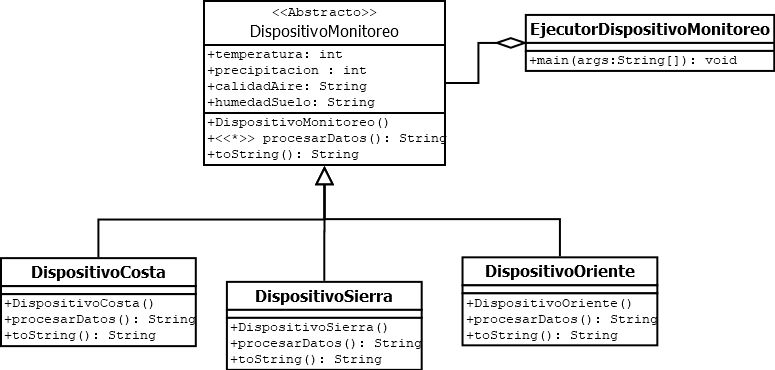
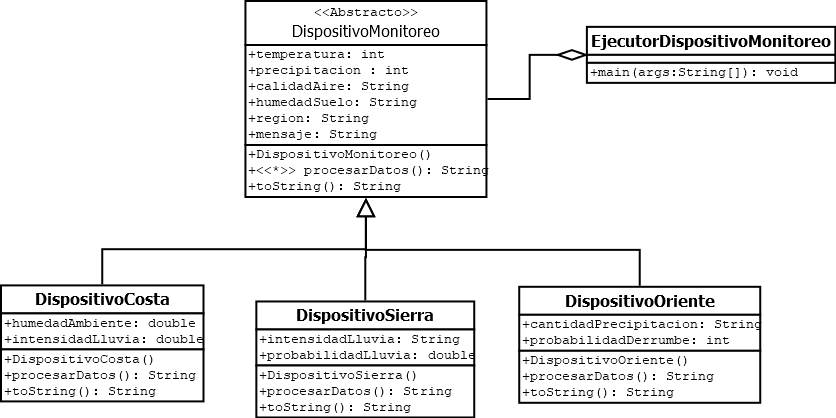
act

Changed region(s): [[0.0, 0.0, 1.0, 1.0]]

diff --git a/Solucion_Codigo/EjerciciosTaller8/src/Problema_4_DispositivoMonitoreo.java b/Solucion_Codigo/EjerciciosTaller8/src/Problema_4_DispositivoMonitoreo.java
@@ -1,12 +1,200 @@
-/*
- * Click nbfs://nbhost/SystemFileSystem/Templates/Licenses/license-default.txt to change this license
- * Click nbfs://nbhost/SystemFileSystem/Templates/Classes/Class.java to edit this template
- */
+
+import java.util.ArrayList;
 
 /**
  *
  * @author paulo
  */
 public class Problema_4_DispositivoMonitoreo {
-    
+
+    public static void main(String[] args) {
+        GestionReporte controlador = new GestionReporte();
+
+        DispositivoCosta costa
+                = new DispositivoCosta(75, 10, 30, 5, "Mala", 20, "Costa");
+        DispositivoSierra sierra
+                = new DispositivoSierra("Muy alta", 60, 18, 3, "Buena", 15, "Sierra");
+        DispositivoOriente oriente
+                = new DispositivoOriente("Alta", 80, 22, 6, "Regular", 30, "Oriente");
+
+        controlador.agregarDispositivo(costa);
+        controlador.agregarDispositivo(sierra);
+        controlador.agregarDispositivo(oriente);
+
+        controlador.generarReportes();
+        controlador.mostrarDispositivos(controlador.obtenerDispositivos());
+    }
+}
+
+abstract class DispositivoMonitoreo {
+
+    public double temperatura;
+    public int precipitacion;
+    public String calidadAire;
+    public double humedadSuelo;
+    public String region;
+    public String mensaje;
+
+    public DispositivoMonitoreo() {
+    }
+
+    public DispositivoMonitoreo(double temperatura, int precipitacion, String calidadAire, double humedadSuelo, String region) {
+        this.temperatura = temperatura;
+        this.precipitacion = precipitacion;
+        this.calidadAire = calidadAire;
+        this.humedadSuelo = humedadSuelo;
+        this.region = region;
+    }
+
+    public abstract String procesarDatos();
+
+    @Override
+    public String toString() {
+        return "Temperatura: " + temperatura + "°C\n"
+                + "Precipitación: " + precipitacion + " mm\n"
+                + "Calidad del Aire: " + calidadAire + "\n"
+                + "Humedad del Suelo: " + humedadSuelo + "%\n"
+                + "Región: " + region + "\n"
+                + "Mensaje: " + mensaje;
+    }
+}
+
+class DispositivoCosta extends DispositivoMonitoreo {
+
+    public double humedadAmbiente;
+    public double intensidadLluvia;
+
+    public DispositivoCosta() {
+    }
+
+    public DispositivoCosta(double humedadAmbiente, double intensidadLluvia,
+            double temperatura, int precipitacion, String calidadAire,
+            double humedadSuelo, String region) {
+        super(temperatura, precipitacion, calidadAire, humedadSuelo, region);
+        this.humedadAmbiente = humedadAmbiente;
+        this.intensidadLluvia = intensidadLluvia;
+    }
+
+    @Override
+    public String procesarDatos() {
+        if (humedadAmbiente >= 60 && humedadAmbiente < 70) {
+            calidadAire = "Baja";
+            mensaje = "La humedad está deteriorando la calidad del aire en la región " + region;
+        } else if (humedadAmbiente > 70) {
+            calidadAire = "Muy baja";
+            mensaje = "La humedad excesiva genera condiciones críticas de calidad del aire en la región " + region;
+        } else {
+            calidadAire = "Buena";
+            mensaje = "Condiciones estables de la region " + region;
+        }
+        return mensaje;
+    }
+
+    @Override
+    public String toString() {
+        return "Dispositivo Costa\n"
+                + "Humedad Ambiente: " + humedadAmbiente + "%\n"
+                + "Intensidad de Lluvia: " + intensidadLluvia + " mm/h\n"
+                + super.toString();
+    }
+}
+
+class DispositivoSierra extends DispositivoMonitoreo {
+
+    public String intensidadLluvia;
+    public double probabilidadLluvia;
+
+    public DispositivoSierra() {
+    }
+
+    public DispositivoSierra(String intensidadLluvia, double probabilidadLluvia,
+            double temperatura, int precipitacion, String calidadAire,
+            double humedadSuelo, String region) {
+        super(temperatura, precipitacion, calidadAire, humedadSuelo, region);
+        this.intensidadLluvia = intensidadLluvia;
+        this.probabilidadLluvia = probabilidadLluvia;
+    }
+
+    @Override
+    public String procesarDatos() {
+        if (intensidadLluvia.equalsIgnoreCase("Muy alta") && probabilidadLluvia >= 50) {
+            mensaje = "Probabilidades de lluvia muy altas en la Sierra. Precaución.";
+        } else if (intensidadLluvia.equalsIgnoreCase("Normal") && (probabilidadLluvia <= 50 && probabilidadLluvia >= 15)) {
+            mensaje = "Lluvias moderadas esperadas en la Sierra.";
+        } else {
+            mensaje = "Condiciones estables en la región Sierra.";
+        }
+        return mensaje;
+    }
+
+    @Override
+    public String toString() {
+        return "Dispositivo Sierra\n"
+                + "Intensidad de Lluvia: " + intensidadLluvia + "\n"
+                + "Probabilidad de Lluvia: " + probabilidadLluvia + "%\n"
+                + super.toString();
+    }
+}
+
+class DispositivoOriente extends DispositivoMonitoreo {
+
+    public String cantidadPrecipitacion;
+    public int probabilidadDerrumbe;
+
+    public DispositivoOriente() {
+    }
+
+    public DispositivoOriente(String cantidadPrecipitacion, int probabilidadDerrumbe,
+            double temperatura, int precipitacion, String calidadAire,
+            double humedadSuelo, String region) {
+        super(temperatura, precipitacion, calidadAire, humedadSuelo, region);
+        this.cantidadPrecipitacion = cantidadPrecipitacion;
+        this.probabilidadDerrumbe = probabilidadDerrumbe;
+    }
+
+    @Override
+    public String procesarDatos() {
+        if (cantidadPrecipitacion.equalsIgnoreCase("Alta") && probabilidadDerrumbe > 70) {
+            mensaje = "Alerta de posibles derrumbes en la región " + region + ".";
+        } else if (cantidadPrecipitacion.equalsIgnoreCase("Moderada") && probabilidadDerrumbe > 40) {
+            mensaje = "Monitoreo activo en la región " + region + " por riesgo medio de derrumbes.";
+        } else {
+            mensaje = "Sin riesgos detectados en la región " + region + ".";
+        }
+        return mensaje;
+    }
+
+    @Override
+    public String toString() {
+        return "Dispositivo Oriente\n"
+                + "Cantidad de Precipitación: " + cantidadPrecipitacion + "\n"
+                + "Probabilidad de Derrumbe: " + probabilidadDerrumbe + "%\n"
+                + super.toString();
+    }
+}
+
+class GestionReporte {
+
+    ArrayList<DispositivoMonitoreo> listaDispositivos = new ArrayList<>();
+
+    public void agregarDispositivo(DispositivoMonitoreo dispositivo) {
+        listaDispositivos.add(dispositivo);
+    }
+
+    public void generarReportes() {
+        for (DispositivoMonitoreo d : listaDispositivos) {
+            d.procesarDatos();
+        }
+    }
+
+    public ArrayList<DispositivoMonitoreo> obtenerDispositivos() {
+        return listaDispositivos;
+    }
+
+    public void mostrarDispositivos(ArrayList<DispositivoMonitoreo> lista) {
+        for (DispositivoMonitoreo d : lista) {
+            System.out.println(d);
+            System.out.println("------------------");
+        }
+    }
 }

diff --git a/Solucion_Codigo/EjerciciosTaller8/src/Problema_3_Futbol.java b/Solucion_Codigo/EjerciciosTaller8/src/Problema_3_Futbol.java
@@ -1,12 +1,134 @@
-/*
- * Click nbfs://nbhost/SystemFileSystem/Templates/Licenses/license-default.txt to change this license
- * Click nbfs://nbhost/SystemFileSystem/Templates/Classes/Class.java to edit this template
- */
 
 /**
  *
  * @author paulo
  */
 public class Problema_3_Futbol {
-    
+
+    public static void main(String[] args) {
+        Atacante atacante = new Atacante("Paulo Bustamante", 9, "11");
+        atacante.registrarEstadisticas(5, 20, 8);
+        System.out.println(" Atacante ");
+        System.out.println(atacante);
+
+        Defensor defensor = new Defensor("Diego Espinosa", 5, "17");
+        defensor.registrarEstadisticas(2, 25, 15);
+        System.out.println("\n Defensor ");
+        System.out.println(defensor);
+
+        Portero portero = new Portero("Antonio Ojeda", 1, "14");
+        portero.registrarEstadisticas(0, 12);
+        System.out.println("\n Portero ");
+        System.out.println(portero);
+    }
+}
+
+abstract class Jugador {
+
+    protected String nombre;
+    protected int dorsal;
+    protected String rut;
+    protected int goles;
+
+    public Jugador(String nombre, int dorsal, String rut) {
+        this.nombre = nombre;
+        this.dorsal = dorsal;
+        this.rut = rut;
+    }
+
+    public void registrarEstadisticas(int goles) {
+        this.goles = goles;
+    }
+
+    public abstract int calcularValoracion();
+
+    @Override
+    public String toString() {
+        return "Nombre: " + nombre
+                + "\nDorsal: " + dorsal
+                + "\nRUT: " + rut
+                + "\nGoles: " + goles
+                + "\nValoración: " + calcularValoracion();
+    }
+}   
+
+class Atacante extends Jugador {
+
+    protected int pases;
+    protected int recuperados;
+
+    public Atacante(String nombre, int dorsal, String rut) {
+        super(nombre, dorsal, rut);
+    }
+
+    public void registrarEstadisticas(int goles, int pases, int recuperados) {
+        super.registrarEstadisticas(goles);
+        this.pases = pases;
+        this.recuperados = recuperados;
+    }
+
+    @Override
+    public int calcularValoracion() {
+        return goles * 30 + recuperados * 3;
+    }
+
+    @Override
+    public String toString() {
+        return super.toString()
+                + "\nPases: " + pases
+                + "\nRecuperados: " + recuperados;
+    }
+}
+
+class Defensor extends Jugador {
+
+    protected int pases;
+    protected int recuperados;
+
+    public Defensor(String nombre, int dorsal, String rut) {
+        super(nombre, dorsal, rut);
+    }
+
+    public void registrarEstadisticas(int goles, int pases, int recuperados) {
+        super.registrarEstadisticas(goles);
+        this.pases = pases;
+        this.recuperados = recuperados;
+    }
+
+    @Override
+    public int calcularValoracion() {
+        return goles * 30 + recuperados * 4;
+    }
+
+    @Override
+    public String toString() {
+        return super.toString()
+                + "\nPases: " + pases
+                + "\nRecuperados: " + recuperados;
+    }
+}
+
+class Portero extends Jugador {
+
+    protected int atajadas;
+
+    public Portero(String nombre, int dorsal, String rut) {
+        super(nombre, dorsal, rut);
+    }
+
+    public void registrarEstadisticas(int goles, int atajadas) {
+        super.registrarEstadisticas(goles);
+        this.atajadas = atajadas;
+    }
+
+    @Override
+    public int calcularValoracion() {
+        return goles * 30 + atajadas * 5;
+    }
+
+    @Override
+    public String toString() {
+        return super.toString()
+                + "\nAtajadas: " + atajadas;
+    }
 }
